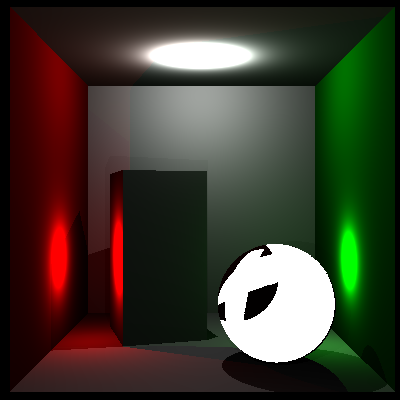
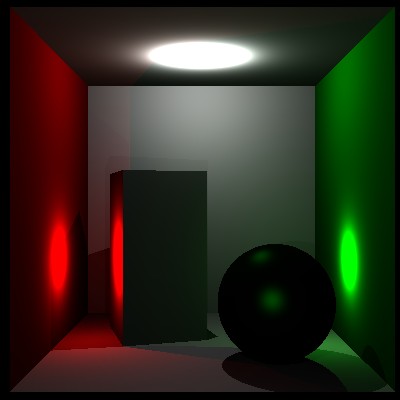
assignment6 ending

Changed region(s): [[0.54, 0.6, 0.84, 0.93]]

diff --git a/rt/materials/cookTorrance.cpp b/rt/materials/cookTorrance.cpp
@@ -17,19 +17,20 @@ namespace rt
         RGBColor diffusedColor = diffusedCoeff * texture->getColor(texPoint) * dot(inDir, normal) / pi;
         
         Vector normalN = normal.normalize();
-        Vector halfVector = (inDir + outDir).normalize();
-        float grazingViewingAngle_NdotO = std::max(dot(normalN, outDir), 0.f);
+        Vector halfVector = (inDir - outDir).normalize();
+        float grazingViewingAngle_NdotO = std::max(dot(normalN, -outDir), 0.f);
         float grazingIlluminationAngle_NdotI = std::max(dot(normalN, inDir), 0.f);
         
         float specularCoeff = 0.0f;
         if(grazingIlluminationAngle_NdotI > 0.0f)
         {
             float IdotH = std::max(dot(inDir, halfVector), 0.f);
-            float OdotH = std::max(dot(outDir, halfVector), 0.f);
+            float OdotH = std::max(dot(-outDir, halfVector), 0.f);
             float NdotH = std::max(dot(normalN, halfVector), 0.f);
 
             //Schlick approximation to the Fresnel equation
-            float F = fresnelCoeff + fresnelCoeff * powf((1 - OdotH), 5);
+			float F = fresnelCoeff + (1 - fresnelCoeff) * powf((1 - OdotH), 5);
+            // float F = fresnelCoeff + fresnelCoeff * powf((1 - OdotH), 5);
 
             //Microfacet Distribution / roughness
             float roughnessMSq = roughnessM * roughnessM;

diff --git a/main/a_materials.cpp b/main/a_materials.cpp
@@ -99,7 +99,7 @@ void a7prepMaterials4(Material** materials) {
     materials[1] = new LambertianMaterial(blacktex, redtex);
     materials[2] = new LambertianMaterial(blacktex, greentex);
 
-    materials[3] = new CookTorranceMaterial(greentex, .2,  0.4, 1);
+    materials[3] = new CookTorranceMaterial(greentex, .1, 0.8, 0.2);
 
     materials[4] = new LambertianMaterial(blacktex, whitetex);
 }
@@ -149,12 +149,12 @@ void a7renderCornellbox(float scale, const char* filename, Material** materials)
 void a_materials() {
     Material** materials = new Material*[5];
     initTextures();
-    // a7prepMaterials1(materials);
-    // a7renderCornellbox(0.001f, "a5-1.png", materials);
-    // a7prepMaterials2(materials);
-    // a7renderCornellbox(0.001f, "a5-2.png", materials);
-    // a7prepMaterials3(materials);
-    // a7renderCornellbox(0.001f, "a5-3.png", materials);
+     a7prepMaterials1(materials);
+     a7renderCornellbox(0.001f, "a5-1.png", materials);
+     a7prepMaterials2(materials);
+     a7renderCornellbox(0.001f, "a5-2.png", materials);
+     a7prepMaterials3(materials);
+     a7renderCornellbox(0.001f, "a5-3.png", materials);
 
     a7prepMaterials4(materials);
     a7renderCornellbox(0.001f, "a5-cook.png", materials);

diff --git a/rt/renderer.cpp b/rt/renderer.cpp
@@ -29,6 +29,10 @@ void Renderer::render(Image & img)
 			float jj = 2.0 * j / img.height() - 1;
 			Ray currentRay = cam->getPrimaryRay(ii, jj);
 
+			if (i == 270 && j == 298)
+			{
+				j = j;
+			}
 			img(i, j) = integrator->getRadiance(currentRay);
 		}
 	}
